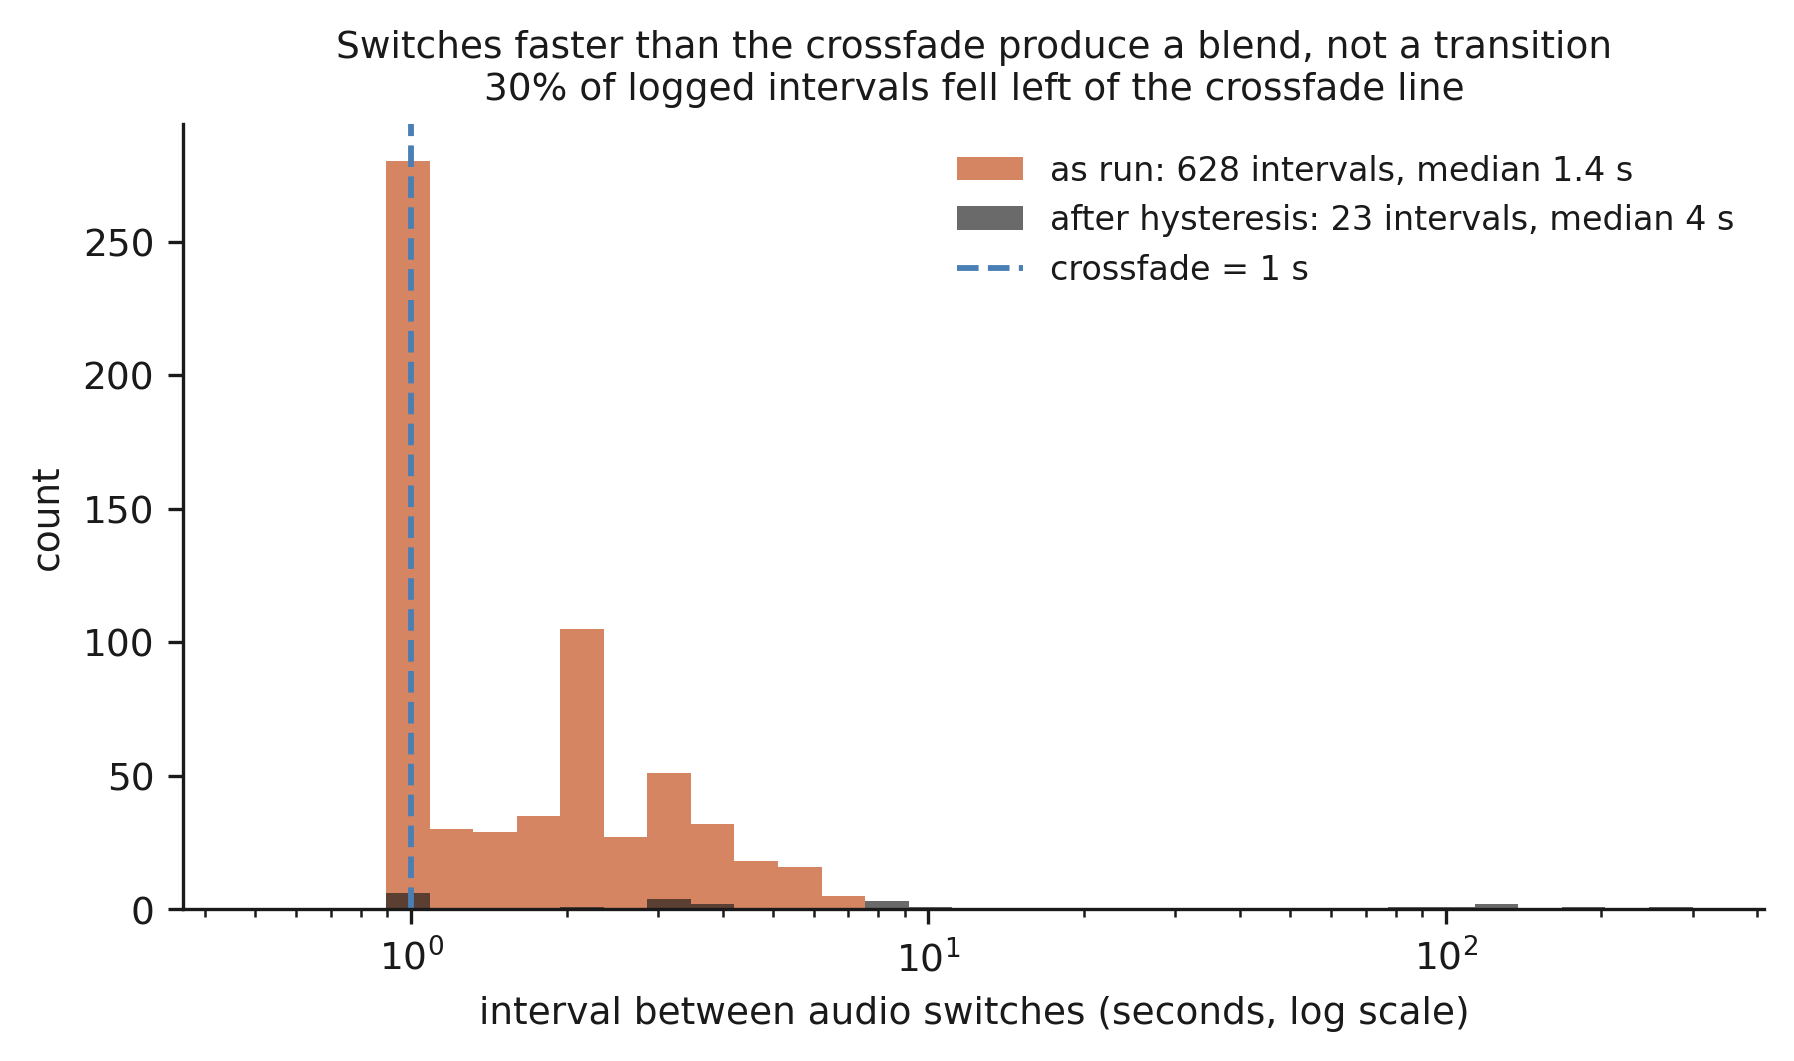
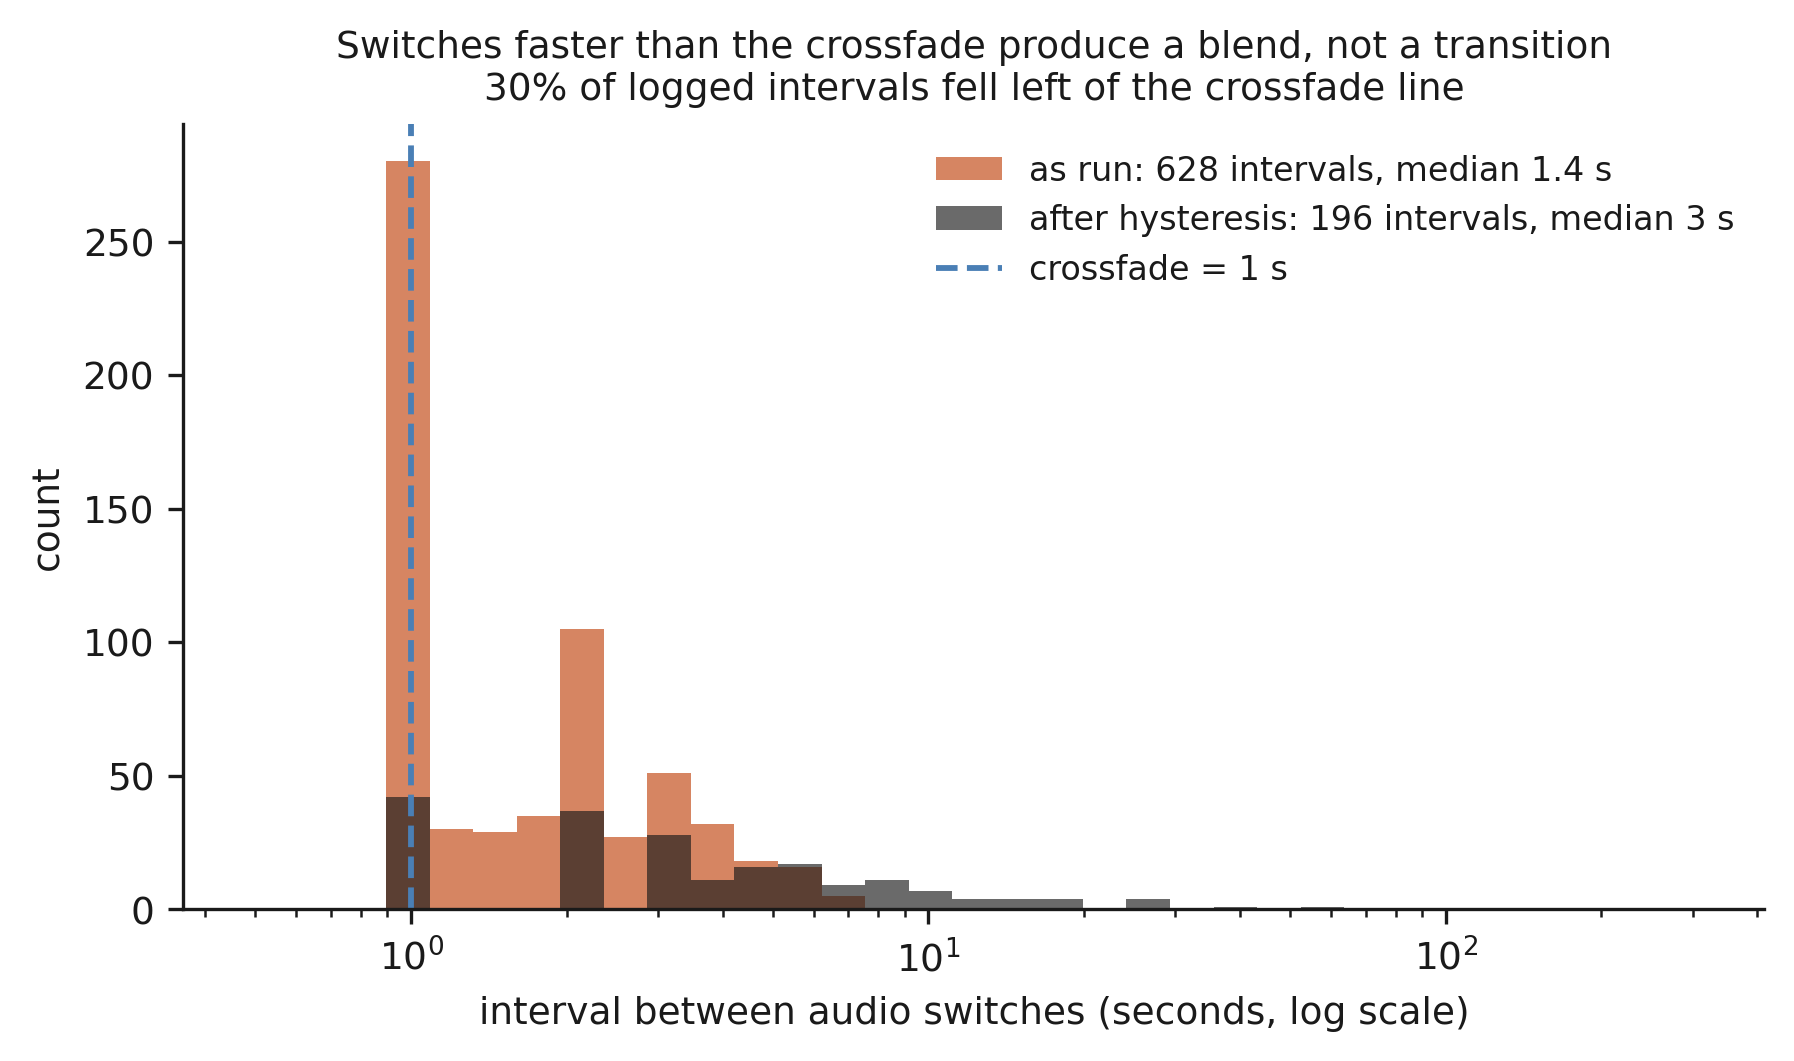
report both alpha validations instead of replacing one (9/20)
Figure 0 becomes 0a (August, TP9/TP10) and 0b (9/17, AF7/AF8), and
make_figures.py renders both. The NOTE about AF7/AF8 is derived from the
manifest now, so it appears only on the panel it is true of.

Substituting either recording for the other deletes half of what we know:
August shows the rig measures cortex, 9/17 shows what the study's own
channels do. The gap between them IS the finding -- 1.34x against 2.13x,
d 0.53 against 1.55, and the alpha-peak prominence check failing at 1.09
and 1.13 against a 1.20 threshold. PINNED_ALPHA stays on August.

Section 8's "never validated on the channels the study uses" was stale
after 9/17 and overstated the gap; rewritten to the narrower claim that
survives -- present, but half the size and less specifically alpha.

diff --git a/scripts/make_figures.py b/scripts/make_figures.py
@@ -90,7 +90,7 @@ def intervention_z(session: dict) -> tuple[np.ndarray, np.ndarray]:
 # ------------------------------------------------------------------- figures
 
 
-def fig_alpha_validation(out: str) -> str:
+def fig_alpha_validation(out: str, session_name: str = "", stem: str = "") -> str:
     """
     The eyes-closed alpha increase, redrawn in the shared figure style.
 
@@ -102,10 +102,12 @@ def fig_alpha_validation(out: str) -> str:
     """
     from scipy import stats as sps
 
-    # Pinned: Figure 0 describes the recording the manuscript describes. Replacing it
-    # with a newer one is a decision about the paper - see PINNED_ALPHA.
+    # Pinned, and reported TWICE rather than replaced (decision of 2026-09-20). The
+    # August recording validates the rig on TP9/TP10; the 9/17 one shows what the
+    # study's own channels do, including a failed eye-closure check. Substituting
+    # either for the other hides half of what we know - see draft section 5.
     from verify_claims import PINNED_ALPHA
-    pinned = os.path.join(_ROOT, "sessions", PINNED_ALPHA)
+    pinned = os.path.join(_ROOT, "sessions", session_name or PINNED_ALPHA)
     dirs = [pinned] if os.path.isdir(pinned) else []
     if not dirs:
         return ""
@@ -130,6 +132,13 @@ def fig_alpha_validation(out: str) -> str:
     pooled = np.sqrt((a[closed].var(ddof=1) + a[~closed].var(ddof=1)) / 2)
     d = float((a[closed].mean() - a[~closed].mean()) / pooled) if pooled > 0 else float("nan")
 
+    # The caveat depends on which pair was recorded, so derive it from the manifest
+    # rather than hardcoding the August session's one onto both panels.
+    live = {"AF7", "AF8"}
+    note = ("" if set(pair) == live else
+            "\nNOTE: the live arousal index uses AF7/AF8, "
+            "which this does NOT validate")
+
     fig, ax = plt.subplots(figsize=(9, 3.2))
     # Shade contiguous eyes-closed blocks rather than per-window, so the blocks read
     # as blocks and a single rejected window does not punch a hole in the band.
@@ -149,11 +158,10 @@ def fig_alpha_validation(out: str) -> str:
     ax.set_ylabel("log$_{10}$ alpha power\n(" + "/".join(pair) + " mean)")
     ax.set_title(f"Alpha rises {ratio:.2f}x with eyes closed on {'/'.join(pair)} "
                  f"(d = {d:.2f}, p = {p:.1e}, n = {closed.sum()}/{(~closed).sum()})\n"
-                 f"NOTE: the live arousal index uses AF7/AF8, which this does NOT validate",
-                 fontsize=8.5)
+                 + note, fontsize=8.5)
     ax.legend(frameon=False, fontsize=8, loc="upper left", ncol=2)
     ax.margins(x=0.01)
-    path = os.path.join(out, "fig0_alpha_validation.png")
+    path = os.path.join(out, (stem or "fig0_alpha_validation") + ".png")
     fig.savefig(path)
     plt.close(fig)
     return path
@@ -427,9 +435,13 @@ def main() -> int:
           + ("" if args.session else "   (pinned; --session overrides)"))
     print(f"output : {out}\n")
 
+    from verify_claims import SECOND_ALPHA
+
     made = []
     for name, fn in (
-        ("alpha validation", lambda: fig_alpha_validation(out)),
+        ("alpha validation (TP9/TP10, August)", lambda: fig_alpha_validation(out)),
+        ("alpha validation (AF7/AF8, 9/17)",
+         lambda: fig_alpha_validation(out, SECOND_ALPHA, "fig0b_alpha_validation_af78")),
         ("session trajectory", lambda: fig_trajectory(session, out)),
         ("autocorrelation", lambda: fig_autocorrelation(session, out)),
         ("switch intervals", lambda: fig_chatter(session, out)),

diff --git a/docs/preprint_draft.md b/docs/preprint_draft.md
@@ -413,7 +413,7 @@ against synthetic data with known ground truth before being applied to real sess
 p = 2.8 × 10⁻²³, 151 closed / 76 open windows), within the 1.5–3× range expected for
 frontal channels, which lack the occipital dominance of classic alpha demonstrations.
 This is evidence the montage records cortical activity rather than amplifier noise
-(Figure 0).
+(Figure 0a).
 
 **That ratio is threshold-dependent, and the window counts above show why.** 151 closed
 against 76 open is a 2:1 imbalance, because artefact rejection removes eyes-open windows
@@ -440,6 +440,45 @@ That is the defensible figure to lead with, and it remains inside the expected r
 The two extremes bound the truth from opposite directions: strict rejection inflates by
 stripping blink power from the open condition, no rejection deflates by leaving broadband
 blink energy in it.
+
+**That recording is not on the channels the system uses, so we report a second one
+alongside it rather than in place of it (Figure 0b).** The August session was recorded
+with `frontal_channels = TP9/TP10`; the live index runs on AF7/AF8. A session on 2026-09-17
+repeated the protocol on AF7/AF8 with good contact:
+
+| | August, TP9/TP10 | 9/17, AF7/AF8 |
+|---|---|---|
+| alpha ratio, eyes closed | **2.13×** | **1.34×** |
+| Cohen's d | 1.55 | 0.53 |
+| p | 2.8 × 10⁻²³ | 2.3 × 10⁻⁶ |
+| windows (closed / open) | 151 / 76 | 164 / 166 |
+| windows rejected | 3% | **0%** |
+| alpha-peak prominence, eyes closed / open | passes | **AF7 1.09, AF8 1.13 (fails, ≥ 1.20 required)** |
+| deployed estimator d | 1.99 | 1.06 |
+
+**Neither recording is the right one to report alone, which is why both appear.** The
+August session is the stronger demonstration that the rig measures cortex, and it is the
+one every downstream claim and figure is pinned to; but it says nothing about the
+electrodes the arousal index actually reads. The 9/17 session says exactly that, and what
+it says is worse: the effect is real and survives on the study's own channels — it is not
+the 0.91× (d = −0.17, p = 0.26) that the same August raw data gives on AF7/AF8 under 48%
+artefact rejection — but it is **roughly half the effect size**, and it **fails the
+alpha-peak prominence check** at 1.09 and 1.13 against a 1.20 threshold. A 1.34× ratio
+with no visible alpha peak is consistent with broadband frontal power tracking the eye
+state rather than with alpha blocking proper.
+
+Substituting the 9/17 recording for the August one would delete the evidence that the
+instrument works; substituting the other way round would delete the evidence that it
+works where it is used. Reporting both preserves the finding that matters, which is the
+gap between them: **the effect the index depends on is present but about half as large,
+and less clearly alpha, on the channels it is computed from.** The pinned session for
+claims and figures therefore stays on August (`PINNED_ALPHA`), and the 9/17 numbers are
+asserted as their own claims in `verify_claims.py` rather than overwriting it.
+
+Two caveats on the 9/17 session itself. It lost 11.75 s and 20.25 s to stream dropouts —
+visible as the flat span near 300 s in Figure 0b — and BlueMuse delivered heavily
+duplicated packets that the recorder's de-duplicating inlet filtered before analysis. Both
+are documented in `docs/deviations.md`; neither is treated here as a reason to discount it.
 
 **Index construct validity.** Two separable claims underlie the measurement: that the
 electrodes record cortex, and that log(beta/alpha) measures *arousal*. The second was
@@ -717,7 +756,7 @@ accounted for 96% of the pilot, and the trend suffix cannot fire after calibrati
 system is a three-level ladder behaving as a two-level one.
 
 **The sensing path has not been validated on the channels the system uses.** This is the
-most serious limitation here. Figure 0 — the eyes-closed alpha increase — was recorded
+most serious limitation here. Figure 0a — the eyes-closed alpha increase — was recorded
 with `frontal_channels = TP9/TP10`, while the live index uses AF7/AF8. Recomputed from the
 same raw recording, the effect does not transfer: 1.85× (d = 1.23, p = 1.8 × 10⁻²⁵) on
 TP9/TP10 against 0.91× (d = −0.17, p = 0.26) on AF7/AF8, with **48% of frontal windows
@@ -725,10 +764,16 @@ rejected as artefact** against 3%.
 
 The rejection rate is the necessary context and stops this being "frontal channels fail":
 PILOT01 ran on AF7/AF8 and rejected only 13.1%, so frontal contact can be good — it was
-not good during the alpha test. The honest statement is narrower and worse: *the sensing
-path has never been validated on the channels the study uses, and the one session capable
-of testing it had frontal contact too poor to answer.* Repeating the validation on AF7/AF8
-gates participant data.
+not good during the alpha test.
+
+**That repeat was run on 2026-09-17 and is reported as Figure 0b (§5).** With good contact
+and 0% rejection, AF7/AF8 give 1.34× (d = 0.53, p = 2.3 × 10⁻⁶): the effect is there, but
+at roughly half the August effect size, and the alpha-peak prominence check fails on both
+channels (1.09 and 1.13 against 1.20). So the limitation is no longer that the channels are
+untested; it is that **on the channels the index uses, the validation is weaker and less
+specifically alpha than the headline figure suggests**, and a 1.34× ratio without a visible
+peak does not exclude broadband power tracking the eye state. This no longer gates
+participant data, but it does bound how much weight the index can carry.
 
 **Frontal channels only.** The Muse 2 has no occipital electrodes, and frontal alpha is
 weaker and more contaminated by ocular and muscle artefact than occipital alpha. The

diff --git a/docs/HANDOFF.md b/docs/HANDOFF.md
@@ -114,9 +114,11 @@ gate working, not a regression.
 2. **Record a new yoke source** with the current controller. PILOT02 cannot serve as one
    (0 prompt changes), and neither can anything older. This is now the only thing blocking
    the sham arm.
-3. Decide whether Figure 0 is replaced (§7 q9) — **decided 2026-09-20: report both**, the
+3. ~~Decide whether Figure 0 is replaced (§7 q9).~~ **DONE 2026-09-20: report both**, the
    August TP9/TP10 validation and the 9/17 AF7/AF8 one, rather than substituting either.
-   Not yet written into §6 of the draft.
+   Written into **§5** of the draft (not §6 — §5 is where Figure 0 lives), the §8
+   limitation updated to match, and `make_figures.py` now renders both panels as
+   `fig0_alpha_validation.png` and `fig0b_alpha_validation_af78.png`.
 3. The link: duplicates were 47% during the alpha test and 0.7% during PILOT02 after a
    BlueMuse restart; two dropouts in the first recording, none in the second. Restart
    BlueMuse fully before every session and keep the laptop within a metre, in front.
